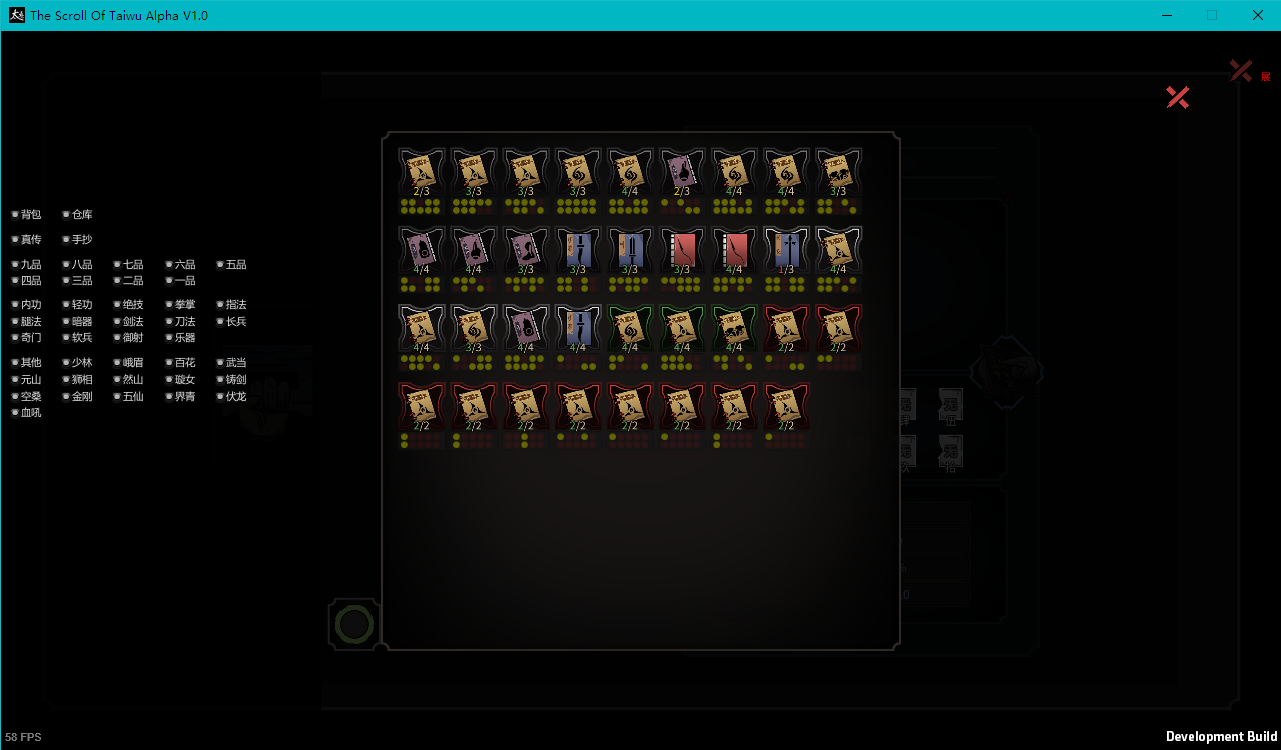
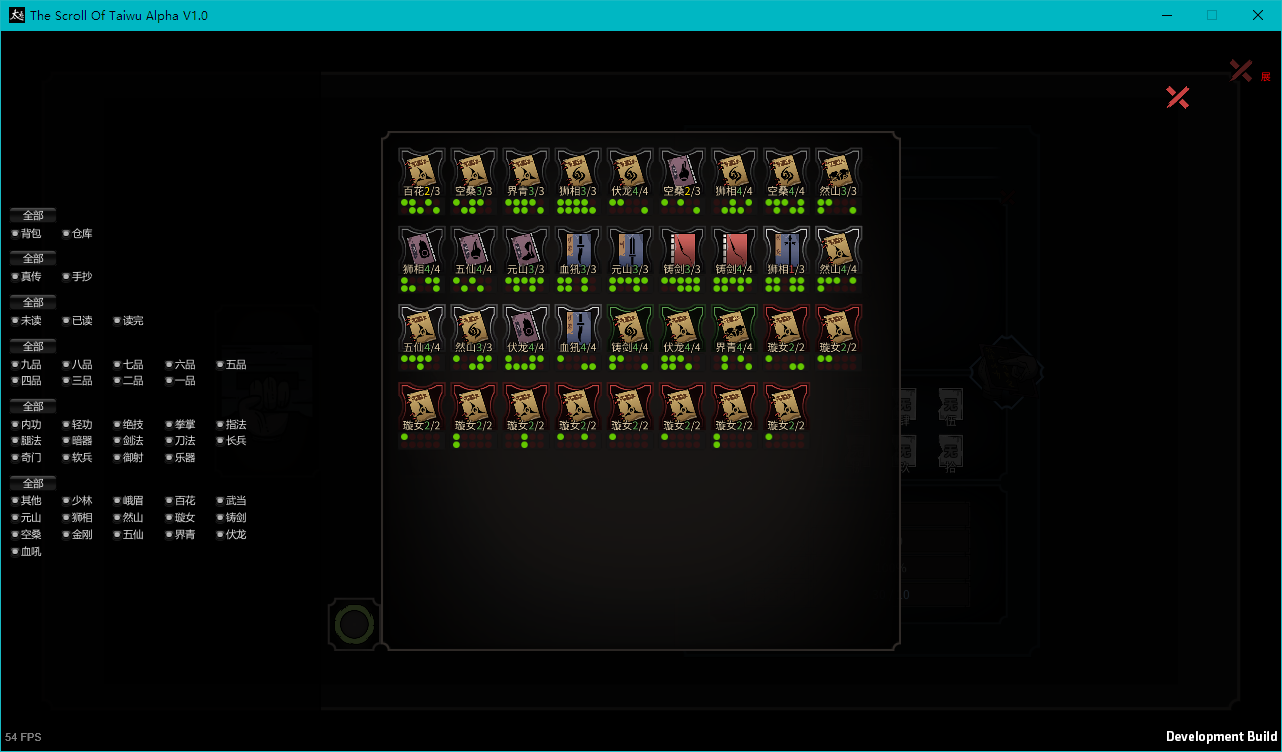
UseStorageBook-1.2.3 - 选书界面添加“全部”按钮 - 书籍图标显示帮派信息 - 还原书籍缺页图标的颜色

diff --git a/UseStorageBook/BookSetting.cs b/UseStorageBook/BookSetting.cs
@@ -86,101 +86,52 @@ namespace Sth4nothing.UseStorageBook
             }
         }
 
+        private static void ShowSetting(string label, Dictionary<int, bool> dict, string[] setting, ref bool changed)
+        {
+            GUILayout.BeginHorizontal();
+            if (GUILayout.Button("全部", GUILayout.Width(60)))
+            {
+                var all = dict.All((pair) => pair.Value);
+                for (int i = 0; i < setting.Length; i++)
+                {
+                    dict[i] = !all;
+                }
+                changed = true;
+            }
+            GUILayout.EndHorizontal();
+            for (int i = 0; i < setting.Length; i++)
+            {
+                if (i % 5 == 0)
+                    GUILayout.BeginHorizontal();
+                var state = GUILayout.Toggle(dict[i], setting[i], GUILayout.Width(60));
+                if (dict[i] != state)
+                {
+                    dict[i] = state;
+                    changed = true;
+                }
+                if (i % 5 == 4 || i == setting.Length - 1)
+                    GUILayout.EndHorizontal();
+            }
+            GUILayout.Space(10);
+        }
+
         private void WindowFunc(int windowId)
         {
             var changed = false;
             GUILayout.BeginVertical();
             GUILayout.Space(200);
 
-            for (int i = 0; i < Main.repo.Length; i++)
-            {
-                if (i % 5 == 0)
-                    GUILayout.BeginHorizontal();
-                var state = GUILayout.Toggle(Main.Setting.repo[i], Main.repo[i], GUILayout.Width(60));
-                if (Main.Setting.repo[i] != state)
-                {
-                    Main.Setting.repo[i] = state;
-                    changed = true;
-                }
-                if (i % 5 == 4 || i == Main.repo.Length - 1)
-                    GUILayout.EndHorizontal();
-            }
-            GUILayout.Space(10);
+            ShowSetting("背包/仓库", Main.Setting.repo, Main.repo, ref changed);
 
-            for (int i = 0; i < Main.tof.Length; i++)
-            {
-                if (i % 5 == 0)
-                    GUILayout.BeginHorizontal();
-                var state = GUILayout.Toggle(Main.Setting.tof[i], Main.tof[i], GUILayout.Width(60));
-                if (Main.Setting.tof[i] != state)
-                {
-                    Main.Setting.tof[i] = state;
-                    changed = true;
-                }
-                if (i % 5 == 4 || i == Main.tof.Length - 1)
-                    GUILayout.EndHorizontal();
-            }
-            GUILayout.Space(10);
+            ShowSetting("真传/手抄", Main.Setting.tof, Main.tof, ref changed);
 
-            for (int i = 0; i < Main.read.Length; i++)
-            {
-                if (i % 5 == 0)
-                    GUILayout.BeginHorizontal();
-                var state = GUILayout.Toggle(Main.Setting.read[i], Main.read[i], GUILayout.Width(60));
-                if (Main.Setting.read[i] != state)
-                {
-                    Main.Setting.read[i] = state;
-                    changed = true;
-                }
-                if (i % 5 == 4 || i == Main.read.Length - 1)
-                    GUILayout.EndHorizontal();
-            }
-            GUILayout.Space(10);
+            ShowSetting("阅读进度", Main.Setting.read, Main.read, ref changed);
 
-            for (int i = 0; i < Main.pinji.Length; i++)
-            {
-                if (i % 5 == 0)
-                    GUILayout.BeginHorizontal();
-                var state = GUILayout.Toggle(Main.Setting.pinji[i], Main.pinji[i], GUILayout.Width(60));
-                if (Main.Setting.pinji[i] != state)
-                {
-                    Main.Setting.pinji[i] = state;
-                    changed = true;
-                }
-                if (i % 5 == 4 || i == Main.pinji.Length - 1)
-                    GUILayout.EndHorizontal();
-            }
-            GUILayout.Space(10);
+            ShowSetting("品级", Main.Setting.pinji, Main.pinji, ref changed);
 
-            for (int i = 0; i < Main.gongfa.Length; i++)
-            {
-                if (i % 5 == 0)
-                    GUILayout.BeginHorizontal();
-                var state = GUILayout.Toggle(Main.Setting.gongfa[i], Main.gongfa[i], GUILayout.Width(60));
-                if (Main.Setting.gongfa[i] != state)
-                {
-                    Main.Setting.gongfa[i] = state;
-                    changed = true;
-                }
-                if (i % 5 == 4 || i == Main.gongfa.Length - 1)
-                    GUILayout.EndHorizontal();
-            }
-            GUILayout.Space(10);
+            ShowSetting("功法", Main.Setting.gongfa, Main.gongfa, ref changed);
 
-            for (var i = 0; i < Main.gang.Length; i++)
-            {
-                if (i % 5 == 0)
-                    GUILayout.BeginHorizontal();
-                var state = GUILayout.Toggle(Main.Setting.gang[i], Main.gang[i], GUILayout.Width(60));
-                if (Main.Setting.gang[i] != state)
-                {
-                    Main.Setting.gang[i] = state;
-                    changed = true;
-                }
-                if (i % 5 == 4 || i == Main.gang.Length - 1)
-                    GUILayout.EndHorizontal();
-            }
-            GUILayout.Space(10);
+            ShowSetting("帮派", Main.Setting.gang, Main.gang, ref changed);
 
             GUILayout.EndVertical();
 

diff --git a/UseStorageBook/UseStorageBook.cs b/UseStorageBook/UseStorageBook.cs
@@ -344,48 +344,34 @@ namespace Sth4nothing.UseStorageBook
         public static void OnGUI(UnityModManager.ModEntry modEntry)
         {
             GUILayout.BeginVertical();
-            GUILayout.BeginHorizontal();
-            for (int i = 0; i < repo.Length; i++)
-            {
-                Setting.repo[i] = GUILayout.Toggle(Setting.repo[i], repo[i], GUILayout.Width(50));
-            }
-            GUILayout.EndHorizontal();
-
-            GUILayout.BeginHorizontal();
-            for (int i = 0; i < tof.Length; i++)
-            {
-                Setting.tof[i] = GUILayout.Toggle(Setting.tof[i], tof[i], GUILayout.Width(50));
-            }
-            GUILayout.EndHorizontal();
-
-            GUILayout.BeginHorizontal();
-            for (int i = 0; i < pinji.Length; i++)
-            {
-                Setting.pinji[i] = GUILayout.Toggle(Setting.pinji[i], pinji[i], GUILayout.Width(50));
-            }
-            GUILayout.EndHorizontal();
-
-            GUILayout.BeginHorizontal();
-            for (int i = 0; i < gongfa.Length; i++)
-            {
-                Setting.gongfa[i] = GUILayout.Toggle(Setting.gongfa[i], gongfa[i], GUILayout.Width(50));
-            }
-            GUILayout.EndHorizontal();
-
-            GUILayout.BeginHorizontal();
-            for (var i = 0; i < gang.Length; i++)
-            {
-                Setting.gang[i] = GUILayout.Toggle(Setting.gang[i], gang[i], GUILayout.Width(50));
-            }
-            GUILayout.EndHorizontal();
-
-            GUILayout.BeginHorizontal();
-            for (var i = 0; i < read.Length; i++)
-            {
-                Setting.read[i] = GUILayout.Toggle(Setting.read[i], read[i], GUILayout.Width(50));
-            }
-            GUILayout.EndHorizontal();
+            ShowSetting("背包/仓库", Setting.repo, repo);
+            ShowSetting("真传/手抄", Setting.tof, tof);
+            ShowSetting("品级", Setting.pinji, pinji);
+            ShowSetting("功法", Setting.gongfa, gongfa);
+            ShowSetting("帮派", Setting.gang, gang);
+            ShowSetting("阅读进度", Setting.read, read);
             GUILayout.EndVertical();
+        }
+
+        public static void ShowSetting(string label, Dictionary<int, bool> dict, string[] setting)
+        {
+            GUILayout.BeginHorizontal();
+            GUILayout.Label(label, GUILayout.Width(100));
+            if (GUILayout.Button("全部", GUILayout.Width(50)))
+            {
+                var all = dict.All((pair) => pair.Value);
+                for (int i = 0; i < setting.Length; i++)
+                {
+                    dict[i] = !all;
+                }
+            }
+            GUILayout.EndHorizontal();
+            GUILayout.BeginHorizontal();
+            for (var i = 0; i < setting.Length; i++)
+            {
+                dict[i] = GUILayout.Toggle(dict[i], setting[i], GUILayout.Width(50));
+            }
+            GUILayout.EndHorizontal();
         }
 
         public static void OnSaveGUI(UnityModManager.ModEntry modEntry)

diff --git a/UseStorageBook/BookCell.cs b/UseStorageBook/BookCell.cs
@@ -39,14 +39,17 @@ namespace Sth4nothing.UseStorageBook
             gameObject2.GetComponent<Image>().sprite = GetSprites.instance.itemSprites[int.Parse(DateFile.instance.GetItemDate(bookId, 98, true))];
             int num2 = int.Parse(DateFile.instance.GetItemDate(bookId, 901, true));
             int num3 = int.Parse(DateFile.instance.GetItemDate(bookId, 902, true));
-            gameObject.transform.Find("ItemHpText").GetComponent<Text>().text = $"{ActorMenu.instance.Color3(num2, num3)}{num2}</color>/{num3}";
+            var df = DateFile.instance;
+            var gangId = int.Parse(df.gongFaDate[int.Parse(df.GetItemDate(bookId, 32))][3]);
+            var gangName = df.presetGangDate[gangId][0].Substring(0, 2);
+            gameObject.transform.Find("ItemHpText").GetComponent<Text>().text = $"{gangName}{ActorMenu.instance.Color3(num2, num3)}{num2}</color>/{num3}";
             int[] bookPage = DateFile.instance.GetBookPage(bookId);
             Transform transform = gameObject.transform.Find("PageBack");
             for (int j = 0; j < transform.childCount; j++)
             {
                 if (bookPage[j] == 1)
                 {
-                    transform.GetChild(j).GetComponent<Image>().color = new Color(100f / 255, 100f / 255, 0f, 1f);
+                    transform.GetChild(j).GetComponent<Image>().color = new Color(100f / 255, 200f / 255, 0f, 1f);
                 }
                 else
                 {

diff --git a/UseStorageBook/ReadMe.md b/UseStorageBook/ReadMe.md
@@ -10,6 +10,11 @@
 
 
 ---
+## 1.2.3
+- 选书界面添加“全部”按钮
+- 书籍图标显示帮派信息
+- 还原书籍缺页图标的颜色
+
 ## 1.2.2
 - 修复更改筛选后书籍的缺页情况显示错误的bug  
 
